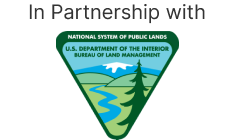
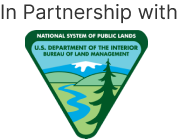
Responsive footer

Changed region(s): [[0.1404, 0.2014, 0.8427, 1.0], [0.0, 0.0288, 1.0, 0.1727]]

diff --git a/wp-content/themes/clfc/scss/footer.scss b/wp-content/themes/clfc/scss/footer.scss
@@ -1,7 +1,13 @@
 #footer {
 
-    padding: 82px 0 97px 0;
-
+    padding: 82px 0 20px 0;
+    .me-3b{
+        max-width: 234px;
+        @media (max-width: 576px) { 
+            max-width: 234px;
+            padding-top: 30px;
+        }
+    }
     .me-4 {
         margin: 0 8px 0 8px;
         }
@@ -30,11 +36,27 @@
                 }
             }
         }
-
+        @media (max-width: 992px) { 
+            li {
+                a {
+                    font-size: 18px;
+                    font-size: 22px;
+                }
+            }
+        }
+        @media (max-width: 576px) { 
+            li {
+                a {
+                    font-size: 18px;
+                    font-size: 22px;
+                }
+            }
+        }
     }
 
     .contact-links {
-        padding-top: 40px; padding-bottom: 40px;
+        padding-top: 40px; 
+        padding-bottom: 40px;
 
         p {
             font-size: 20px;
@@ -53,7 +75,16 @@
                 color: #631000;
             }
         }
+        @media (max-width: 992px) { 
+            img {
+                padding: 30px 0 0 0 ;
+            }
+        }
+        @media (max-width: 576px) { 
+            img {
+                padding: 30px 0 0 0 ;
+            }
+        }
     }
-
 }
  

diff --git a/wp-content/themes/clfc/css/style.css b/wp-content/themes/clfc/css/style.css
@@ -92,7 +92,16 @@ body h2 {
 }
 
 #footer {
-  padding: 82px 0 97px 0;
+  padding: 82px 0 20px 0;
+}
+#footer .me-3b {
+  max-width: 234px;
+}
+@media (max-width: 576px) {
+  #footer .me-3b {
+    max-width: 234px;
+    padding-top: 30px;
+  }
 }
 #footer .me-4 {
   margin: 0 8px 0 8px;
@@ -118,6 +127,18 @@ body h2 {
 #footer ul li a:hover {
   color: #631000;
 }
+@media (max-width: 992px) {
+  #footer ul li a {
+    font-size: 18px;
+    font-size: 22px;
+  }
+}
+@media (max-width: 576px) {
+  #footer ul li a {
+    font-size: 18px;
+    font-size: 22px;
+  }
+}
 #footer .contact-links {
   padding-top: 40px;
   padding-bottom: 40px;
@@ -136,6 +157,16 @@ body h2 {
 }
 #footer .contact-links a:hover {
   color: #631000;
+}
+@media (max-width: 992px) {
+  #footer .contact-links img {
+    padding: 30px 0 0 0;
+  }
+}
+@media (max-width: 576px) {
+  #footer .contact-links img {
+    padding: 30px 0 0 0;
+  }
 }
 
 #hero {

diff --git a/wp-content/themes/clfc/footer.php b/wp-content/themes/clfc/footer.php
@@ -5,10 +5,10 @@
 <section id="footer">
 <div class="container">
   <footer class="footer">
-    <div class="row justify-content-center">
-      <div class="col-md-6">
+    <div class="row justify-content-left">
+      <div class="col-md-12 col-lg-6 align-items-left">
         <img src="<?php bloginfo('template_url'); ?>/img/logo-footer.png" alt="conservation lands foundation logo" class="me-3" style="max-width: 461px;"> 
-        <img src="<?php bloginfo('template_url'); ?>/img/national.png" alt="national system of public lands" class="me-3" style="max-width: 234px;"> 
+        <img src="<?php bloginfo('template_url'); ?>/img/national.png" alt="national system of public lands" class="me-3b"> 
         <div class="d-flex align-items-center">
           <div class="contact-links">
             <p><a href="mailto:info@conservationlands.org">info@conservationlands.org</a></p>
@@ -21,12 +21,12 @@
             <a href="https://www.tiktok.com/@conservationlands" target="_blank"> <img src="<?php bloginfo('template_url'); ?>/img/tiktok.png" alt="tiktok" class="me-4" style="max-width: 30px;"></a> 
           </div>
         </div>
-        <div class="col-md-9">
+        <div class="col-md-9 col-lg-9">
           <p>We acknowledge that the land on which our home office is located and where members of our staff live and execute our business is the original land of the Utes–Nuuchiu–the longest continuous residents of Colorado.</p>
           <p>© 2023. All Rights Reserved.	Privacy Policy. Terms and Conditions.</p>
         </div>
       </div>
-      <div class="col-md-2 offset-md-4">
+      <div class="col-md-12 col-lg-2 offset-lg-4">
         <ul>
           <li><a href="#">HOME</a></li>
           <li><a href="#">ABOUT</a></li>
